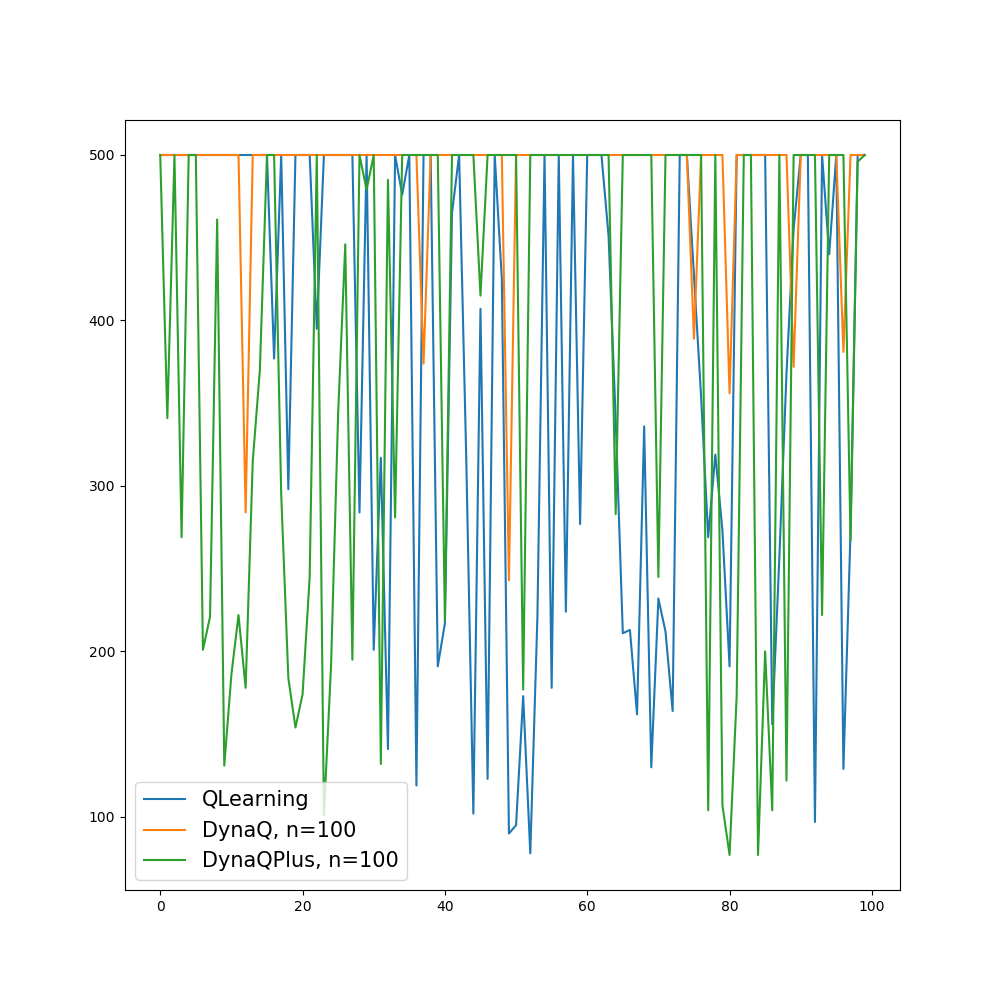
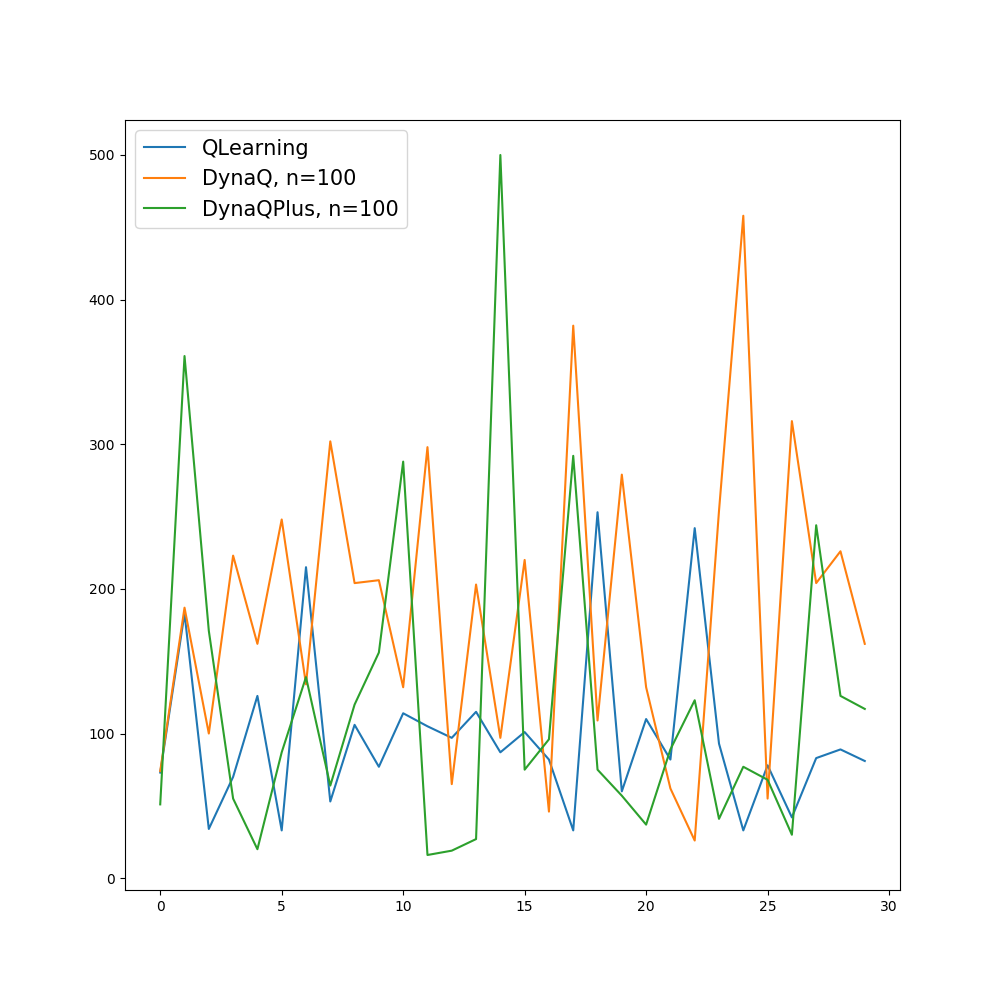
Changes plots once again

diff --git a/main.py b/main.py
@@ -7,11 +7,14 @@ from dynaq_plus import DynaQPlus
 from itertools import chain, product
 from functools import partial
 
-games = LionCowGame(10, 10, 2), LionCowGame(10, 10, 2, maxa=500, is_stohastic=True)
+games = LionCowGame(10, 10, 2), LionCowGame(5, 5, 2, maxa=500, is_stohastic=True)
 nalgos = DynaQ, DynaQPlus
+epss = 1e-1,
+iter_nums = 30,
 ns = 1, 50, 100
-algos = lambda n: tuple(chain((QLearning,), (partial(a, n=n) for a, n in product(nalgos, (n,)))))
-iter_num = 50
+algos = lambda n: tuple(chain(*(tuple(chain((partial(QLearning, eps=e, iter_num=i),),
+                                            (partial(a, n=n, eps=e, iter_num=i) for a, n in product(nalgos, (n,))))
+                                      for e, i in product(epss, iter_nums)))))
 
 
 def draw_plot(game, filename, n):

diff --git a/dynaq_plus.py b/dynaq_plus.py
@@ -54,8 +54,10 @@ class DynaQPlus(DynaQ):
 
 
 if __name__ == '__main__':
-    game = LionCowGame(10, 10, 2, is_stohastic=True)
+    game = LionCowGame(5, 5, 2, is_stohastic=True, maxa=500, stohastic_p=0.3)
     print(game.cows)
     algo = DynaQPlus(game)
-    print(algo.find_op())
+    rewards = algo.find_op()
+    print(rewards)
+    print(sum(reward == 500 for reward in rewards))
     algo.print_one_round()

diff --git a/q_learning.py b/q_learning.py
@@ -55,7 +55,7 @@ class QLearning:
 
 
 if __name__ == '__main__':
-    game = LionCowGame(10, 10, 2, maxa=500, is_stohastic=True)
+    game = LionCowGame(10, 10, 2, maxa=500, is_stohastic=True, stohastic_p=0.3)
     print(game.cows)
     algo = QLearning(game)
     print(algo.find_op())
